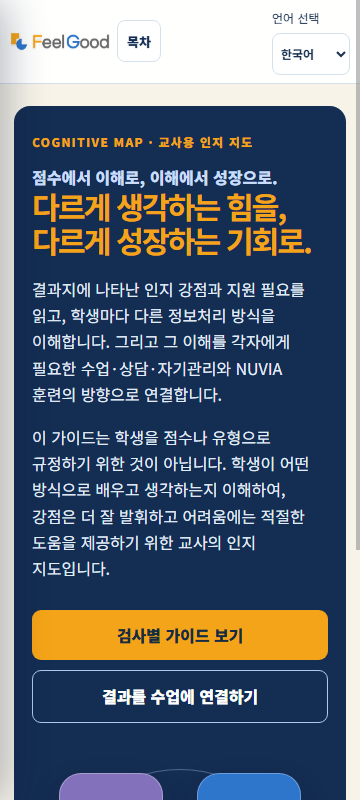
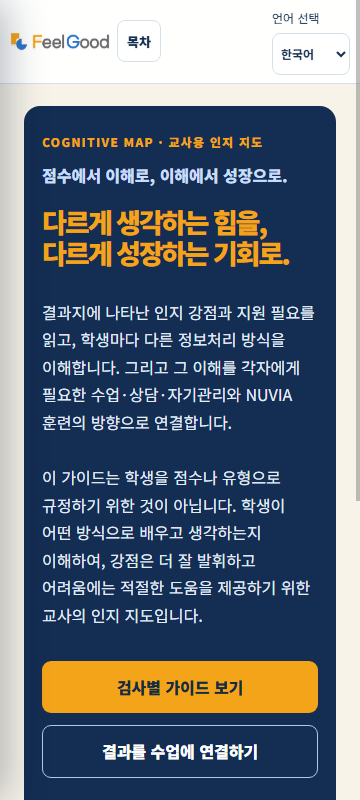
style: rebalance teacher guide opening layout

diff --git a/teacher-guide/ebook.css b/teacher-guide/ebook.css
@@ -159,6 +159,10 @@ a:focus-visible, button:focus-visible, input:focus-visible, select:focus-visible
   margin: 0 auto;
   padding: clamp(34px, 5vw, 64px) clamp(24px, 5vw, 64px);
 }
+.chapter-reader:has(#opening:not([hidden])) {
+  width: min(1180px, 100%);
+  padding-inline: clamp(24px, 3vw, 40px);
+}
 .chapter { display: block; min-width: 0; }
 .chapter[hidden] { display: none !important; }
 .chapter:focus { outline: none; }
@@ -186,31 +190,38 @@ a:focus-visible, button:focus-visible, input:focus-visible, select:focus-visible
   position: relative;
   display: grid;
   min-height: auto;
-  grid-template-columns: minmax(0, 1.1fr) minmax(310px, .9fr);
+  grid-template-columns: minmax(0, 1.12fr) minmax(360px, .88fr);
   align-items: center;
-  gap: clamp(28px, 4vw, 54px);
+  gap: clamp(56px, 5vw, 76px);
   overflow: hidden;
-  padding: clamp(34px, 5vw, 62px);
+  padding: clamp(46px, 5vw, 68px);
   border-radius: 24px;
   background: var(--navy);
   color: #fff;
 }
 .opening-copy { position: relative; z-index: 2; min-width: 0; container-type: inline-size; }
+.chapter-opening .eyebrow { margin-bottom: 10px; }
+.chapter-opening .lead { margin: 0 0 18px; }
 .chapter-opening .opening-title {
   color: var(--orange);
-  font-size: clamp(27px, 10.2cqi, 52px);
-  line-height: 1.12;
-  letter-spacing: -.065em;
+  margin-bottom: 30px;
+  font-size: clamp(30px, 10.5cqi, 56px);
+  font-weight: 800;
+  line-height: 1.16;
+  letter-spacing: -.075em;
 }
 .opening-title span { display: block; white-space: nowrap; }
 .opening-copy > p:not(.eyebrow, .lead) {
-  max-width: 650px;
+  max-width: 680px;
+  margin: 0 0 22px;
   color: #e3edf9;
-  font-size: 17px;
+  font-size: 18px;
+  line-height: 1.72;
   word-break: keep-all;
   overflow-wrap: anywhere;
 }
-.actions { display: flex; flex-wrap: wrap; gap: 10px; margin-top: 28px; }
+.opening-copy > p:not(.eyebrow, .lead) + p { margin-top: 28px; }
+.actions { display: flex; flex-wrap: wrap; gap: 12px; margin-top: 32px; }
 .button {
   display: inline-flex;
   min-height: 46px;
@@ -224,46 +235,69 @@ a:focus-visible, button:focus-visible, input:focus-visible, select:focus-visible
 }
 .button.gold { background: var(--orange); color: #172b43; }
 .button.line { border: 1px solid #aec9ed; background: transparent; color: #fff; }
+.chapter-opening .actions .button { min-height: 52px; flex: 1 1 190px; padding-inline: 20px; }
 .cognitive-art {
   position: relative;
   z-index: 1;
   display: grid;
-  width: min(100%, 420px);
-  aspect-ratio: 1.06;
+  width: min(100%, 470px);
+  min-height: 440px;
   grid-template-columns: repeat(2, minmax(0, 1fr));
   align-items: center;
-  gap: 20px;
+  gap: 24px 22px;
   justify-self: center;
   isolation: isolate;
-  padding: 9%;
+  padding: 22px 8px;
+}
+.cognitive-art::after {
+  position: absolute;
+  z-index: 1;
+  top: 50%;
+  left: 50%;
+  display: grid;
+  width: 76px;
+  aspect-ratio: 1;
+  place-items: center;
+  transform: translate(-50%, -50%);
+  border: 1px solid rgb(165 203 241 / 42%);
+  border-radius: 50%;
+  background: var(--navy-dark);
+  box-shadow: 0 14px 30px rgb(4 19 38 / 32%);
+  color: #cfe4fa;
+  content: "PASS";
+  font-size: 12px;
+  font-weight: 900;
+  letter-spacing: .12em;
+  pointer-events: none;
 }
 .orbit, .link { position: absolute; z-index: 0; pointer-events: none; }
-.orbit { inset: 8%; border: 1px solid rgb(159 196 238 / 40%); border-radius: 50%; }
-.orbit.two { inset: 24%; border-color: rgb(172 207 240 / 35%); }
+.orbit { inset: 5%; border: 1px solid rgb(159 196 238 / 42%); border-radius: 50%; }
+.orbit.two { inset: 22%; border-color: rgb(172 207 240 / 38%); }
 .link { height: 1px; background: rgb(183 216 245 / 40%); transform-origin: left; }
 .link.l1 { top: 46%; left: 20%; width: 64%; transform: rotate(32deg); }
 .link.l2 { top: 67%; left: 24%; width: 58%; transform: rotate(-37deg); }
 .pass-node {
   position: relative;
-  z-index: 1;
+  z-index: 2;
   display: flex;
-  width: min(100%, 132px);
-  aspect-ratio: 1;
+  width: min(100%, 176px);
+  min-height: 156px;
   flex-direction: column;
-  justify-content: flex-end;
-  padding: 16px;
+  justify-content: center;
+  padding: 22px 20px;
   border: 1px solid rgb(255 255 255 / 30%);
-  border-radius: 26px;
+  border-radius: 30px;
   box-shadow: 0 14px 28px rgb(6 24 43 / 28%);
   color: #fff;
-  font-size: 20px;
-  font-weight: 900;
+  font-size: clamp(25px, 2vw, 29px);
+  font-weight: 800;
+  line-height: 1.2;
 }
-.pass-node span { font-size: 11px; font-weight: 700; opacity: .9; }
-.pass-node.plan { justify-self: start; background: var(--purple); }
-.pass-node.attention { justify-self: end; background: var(--blue); }
-.pass-node.simultaneous { justify-self: start; background: var(--sky); }
-.pass-node.successive { justify-self: end; background: var(--orange); color: #24344c; }
+.pass-node span { margin-bottom: 8px; font-size: clamp(14px, 1.1vw, 16px); font-weight: 700; line-height: 1.2; opacity: .92; white-space: nowrap; }
+.pass-node.plan { justify-self: start; transform: translate(-6px, -18px); background: var(--purple); }
+.pass-node.attention { justify-self: end; transform: translate(8px, 2px); background: var(--blue); }
+.pass-node.simultaneous { justify-self: start; transform: translate(-2px, -2px); background: var(--sky); }
+.pass-node.successive { justify-self: end; transform: translate(10px, 18px); background: var(--orange); color: #24344c; }
 
 /* Shared cards and chapter components */
 .info-grid, .report-grid, .pass-grid, .profile-list, .teacher-cards, .dashboard-grid, .nuvia-grid, .help-grid {
@@ -481,12 +515,18 @@ a:focus-visible, button:focus-visible, input:focus-visible, select:focus-visible
   .mobile-brand img { width: 116px; }
   .toc-toggle { display: inline-flex; min-height: 44px; align-items: center; border: 1px solid var(--line); border-radius: 8px; background: #fff; color: var(--navy); padding: 7px 11px; font-weight: 800; }
   .reader-language { margin-right: 14px; margin-left: auto; }
-  .chapter-opening { grid-template-columns: minmax(0, 1fr) minmax(300px, .8fr); }
+  .chapter-opening {
+    grid-template-columns: minmax(0, 1fr) minmax(300px, .8fr);
+    gap: 48px;
+    padding: clamp(42px, 5vw, 56px);
+  }
+  .cognitive-art { min-height: 400px; gap: 18px; }
+  .pass-node { width: min(100%, 160px); min-height: 148px; transform: none !important; }
 }
 
 @media (max-width: 820px) {
-  .chapter-opening { grid-template-columns: 1fr; }
-  .cognitive-art { width: min(100%, 390px); }
+  .chapter-opening { grid-template-columns: 1fr; gap: 38px; }
+  .cognitive-art { width: min(100%, 430px); min-height: 390px; }
   .info-grid.three, .report-grid, .teacher-cards, .dashboard-grid, .nuvia-grid, .help-grid { grid-template-columns: 1fr 1fr; }
   .flow { grid-template-columns: repeat(2, minmax(0, 1fr)); }
   .flow li:last-child { grid-column: 1 / -1; }
@@ -508,13 +548,16 @@ a:focus-visible, button:focus-visible, input:focus-visible, select:focus-visible
   .chapter-reader { min-height: calc(100dvh - 124px); padding: 22px 14px 30px; }
   .chapter-intro { margin-bottom: 24px; }
   .chapter-intro h2, .chapter-opening h2, .chapter-closing h2 { font-size: clamp(29px, 8.5vw, 38px); }
+  .chapter-opening .opening-title { font-size: clamp(27px, 9.5cqi, 29px); letter-spacing: -.075em; }
   .chapter-intro > p:not(.eyebrow), .opening-copy > p:not(.eyebrow, .lead) { font-size: 16px; }
   .chapter-opening, .chapter-closing { padding: 26px 18px; border-radius: 16px; }
-  .chapter-opening { gap: 24px; }
+  .chapter-opening { gap: 34px; }
   .actions { display: grid; grid-template-columns: 1fr; }
   .actions .button { width: 100%; }
-  .cognitive-art { width: min(100%, 330px); }
-  .pass-node { width: 104px; border-radius: 22px; padding: 13px; font-size: 18px; }
+  .cognitive-art { width: min(100%, 330px); min-height: 330px; gap: 12px; padding: 4px 0; }
+  .cognitive-art::after { width: 60px; font-size: 10px; }
+  .pass-node { width: min(100%, 142px); min-height: 132px; border-radius: 22px; padding: 16px 14px; font-size: 25px; }
+  .pass-node span { margin-bottom: 6px; font-size: 13px; }
   .info-grid.two, .info-grid.three, .report-grid, .pass-grid, .profile-list, .teacher-cards, .dashboard-grid, .nuvia-grid, .help-grid, .level-grid { grid-template-columns: 1fr; }
   .flow, .assignment { grid-template-columns: 1fr; }
   .flow li:last-child { grid-column: auto; }
